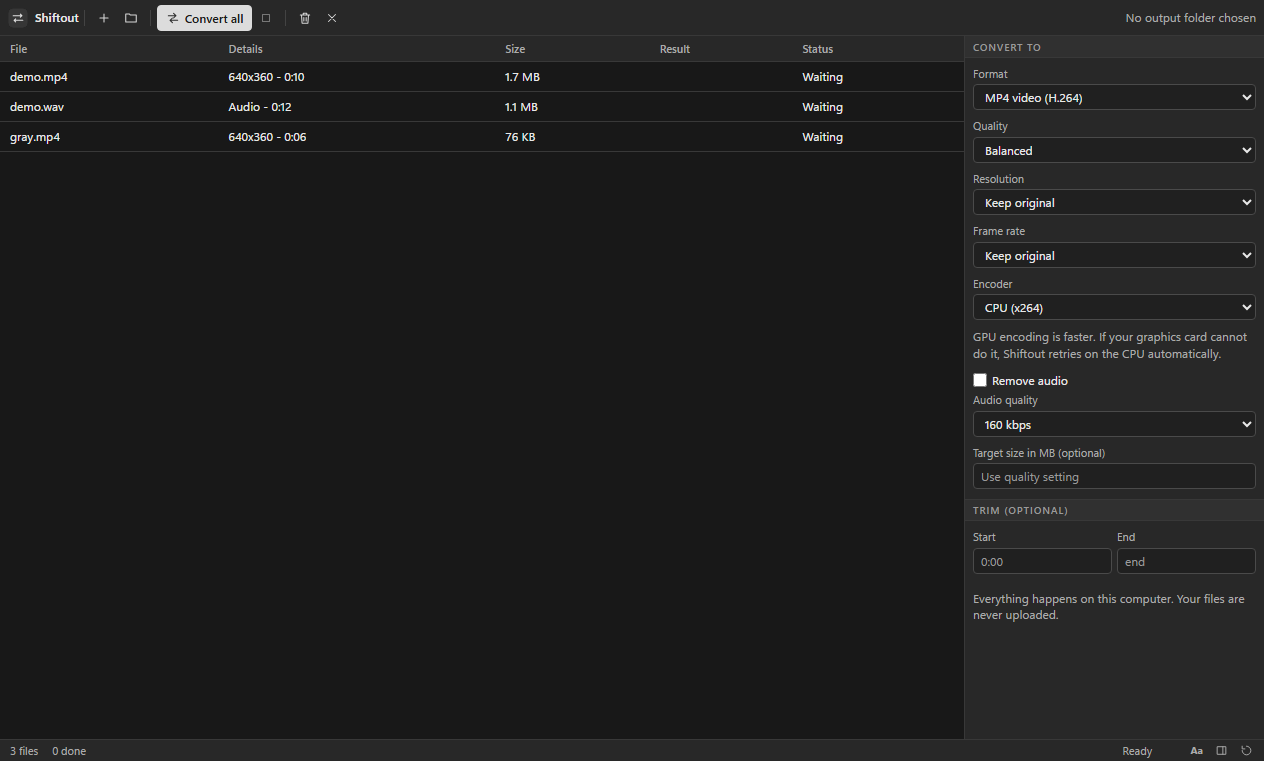
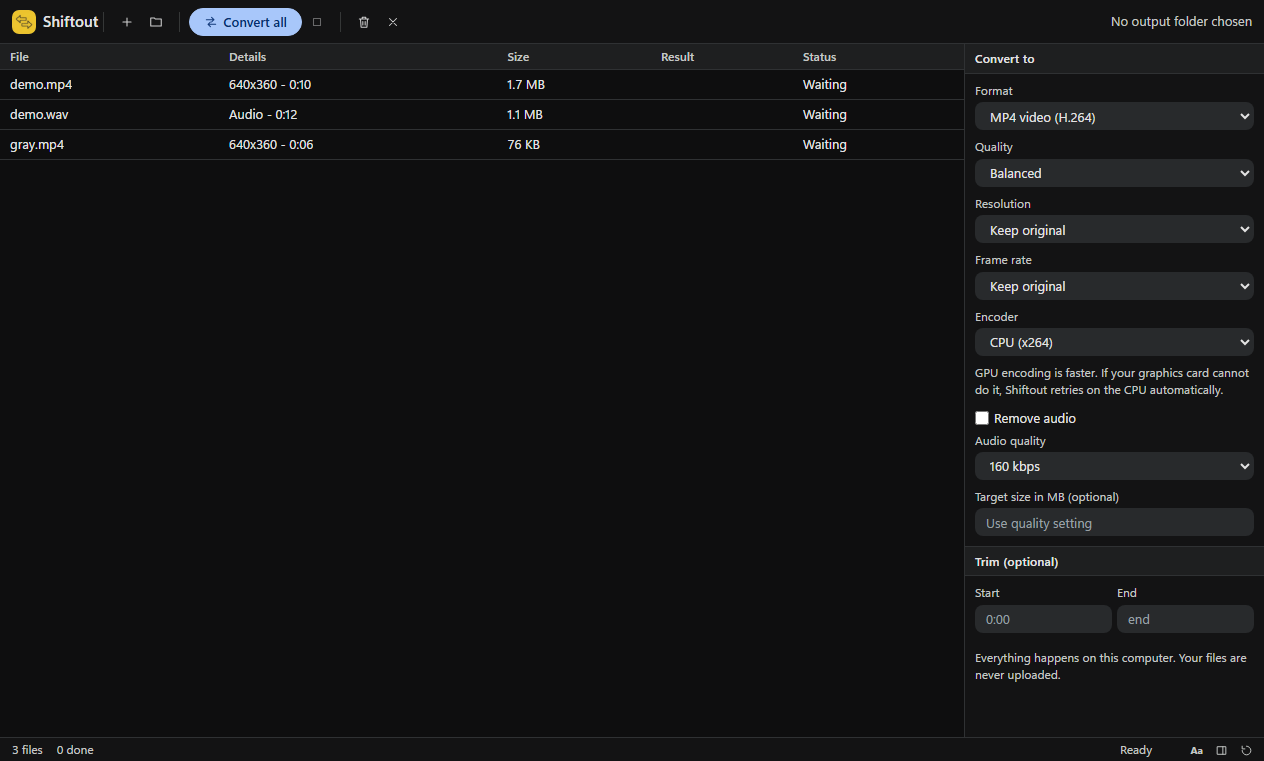
fix: Shiftout 1.0.16
New Google-style look: charcoal theme, pill buttons, blue accent, colour app logo. Refreshed README and screenshots.

diff --git a/renderer/lookout.css b/renderer/lookout.css
@@ -1,68 +1,69 @@
-/* Lookout gray UI kit v3: compact pro workspace, flat, no hue. Shared by every Lookout app. */
+/* Lookout UI kit v4: Google-style dark (AI Studio / Colab / Gemini): soft surfaces, pill buttons, blue accent. Shared by every Lookout app. */
 :root{
-  --bg:#202020; --bg-2:#282828; --bg-3:#303030; --bg-4:#3a3a3a; --stage:#181818;
-  --line:#383838; --line-2:#4a4a4a; --line-3:#5c5c5c;
-  --text:#e8e8e8; --text-2:#ababab; --text-3:#9a9a9a;
-  --accent:#dcdcdc; --accent-ink:#1b1b1b; --focus:#a0a0a0;
-  --radius:4px; --h:26px; --pad:8px;
-  --font:"Segoe UI Variable Text","Segoe UI",system-ui,-apple-system,sans-serif; --mono:Consolas,"Cascadia Mono",monospace;
+  --bg:#131314; --bg-2:#1e1f20; --bg-3:#282a2c; --bg-4:#333537; --stage:#0e0e0f;
+  --line:#2f3133; --line-2:#444746; --line-3:#5f6368;
+  --text:#e3e3e3; --text-2:#c4c7c5; --text-3:#9aa0a6;
+  --accent:#a8c7fa; --accent-ink:#062e6f; --accent-2:#0b57d0; --accent-soft:#2b3a55; --focus:#a8c7fa;
+  --radius:8px; --h:28px; --pad:10px;
+  --font:"Google Sans Text","Google Sans",Roboto,"Segoe UI Variable Text","Segoe UI",system-ui,-apple-system,sans-serif; --mono:Consolas,"Cascadia Mono",monospace;
 }
 *{box-sizing:border-box;margin:0;padding:0}
-html,body{height:100%;background:var(--bg);color:var(--text);font:12px/1.4 var(--font);overflow:hidden;user-select:none;-webkit-font-smoothing:antialiased}
+html,body{height:100%;background:var(--bg);color:var(--text);font:13px/1.45 var(--font);overflow:hidden;user-select:none;-webkit-font-smoothing:antialiased}
 button,input,select,textarea{font:inherit;color:inherit}
 .app{display:grid;grid-template-rows:auto 1fr auto;height:100vh}
 
 /* ---------- toolbar ---------- */
-.toolbar{display:flex;align-items:center;gap:1px;padding:4px 8px;min-height:36px;background:var(--bg-2);border-bottom:1px solid var(--line);flex-wrap:nowrap;overflow-x:auto;overflow-y:hidden;scrollbar-width:none}
+.toolbar{display:flex;align-items:center;gap:1px;padding:6px 12px;min-height:44px;background:var(--bg);border-bottom:1px solid var(--line);flex-wrap:nowrap;overflow-x:auto;overflow-y:hidden;scrollbar-width:none}
 .toolbar::-webkit-scrollbar{height:0}
 .toolbar>*{flex-shrink:0}
-.toolbar .sep{width:1px;height:16px;align-self:center;background:var(--line-2);margin:0 5px;opacity:.8}
+.toolbar .sep{width:1px;height:20px;align-self:center;background:var(--line-2);margin:0 8px;opacity:.7}
 .toolbar .grow{flex:1 1 auto;min-width:8px}
 .toolbar input[type=text],.toolbar input[type=search]{width:150px}
-.brand{display:flex;align-items:center;gap:7px;padding-right:2px;margin-right:2px;font-weight:600;font-size:12px;color:var(--text)}
-.brand img{width:20px;height:20px;border-radius:5px;display:block}
+.brand{display:flex;align-items:center;gap:7px;padding-right:2px;margin-right:2px;font-weight:500;font-size:15px;letter-spacing:.1px;color:var(--text)}
+.brand img{width:24px;height:24px;border-radius:7px;display:block}
 .brand+.sep{margin-left:0}
 
 /* ---------- buttons ---------- */
-.btn{display:inline-flex;align-items:center;justify-content:center;gap:5px;height:var(--h);padding:0 8px;background:var(--bg-3);border:1px solid var(--line);border-radius:var(--radius);cursor:pointer;white-space:nowrap;line-height:1;transition:background .08s,border-color .08s}
-.btn:hover{background:var(--bg-4);border-color:var(--line-2)}
-.btn:active{background:#262626}
+.btn{display:inline-flex;align-items:center;justify-content:center;gap:5px;height:var(--h);padding:0 14px;background:var(--bg-3);border:1px solid transparent;border-radius:999px;cursor:pointer;white-space:nowrap;line-height:1;transition:background .08s,border-color .08s}
+.btn:hover{background:var(--bg-4)}
+.btn:active{background:#3c3f41}
 .btn:focus-visible,input:focus-visible,select:focus-visible,textarea:focus-visible,[tabindex]:focus-visible{outline:2px solid var(--focus);outline-offset:1px}
-.btn.primary{background:var(--accent);color:var(--accent-ink);border-color:var(--accent);font-weight:600}
-.btn.primary:hover{background:#ececec;border-color:#ececec}
-.btn.on{background:#4a4a4a;border-color:var(--line-3);box-shadow:inset 0 0 0 1px #6a6a6a}
+.btn.primary{background:var(--accent);color:var(--accent-ink);border-color:var(--accent);font-weight:500}
+.btn.primary:hover{background:#c2d7fb;border-color:#c2d7fb;box-shadow:0 1px 3px rgba(0,0,0,.4)}
+.btn.on{background:var(--accent-soft);color:var(--accent);border-color:transparent}
 .btn[disabled]{opacity:.45;pointer-events:none}
-.btn.icon{padding:0;width:var(--h);min-width:var(--h)}
+.btn.icon{padding:0;width:var(--h);min-width:var(--h);border-radius:50%}
 .btn .ic{width:14px;height:14px;flex-shrink:0;display:block;opacity:.92}
 .toolbar .btn:not(.primary):not(.on){background:transparent;border-color:transparent}
-.toolbar .btn:not(.primary):not(.on):hover{background:var(--bg-4);border-color:var(--line-2)}
+.toolbar .btn:not(.primary):not(.on):hover{background:var(--bg-3);border-color:transparent}
 
 /* icon-only toolbar: names live in the tooltip (Aa in the status bar brings the labels back) */
-.toolbar:not(.lbl) .btn:not(.primary):has(> svg.ic),.toolbar.c3 .btn:has(> svg.ic){font-size:0;gap:0;width:var(--h);padding:0}
+.toolbar:not(.lbl) .btn:not(.primary):has(> svg.ic),.toolbar.c3 .btn:has(> svg.ic){font-size:0;gap:0;width:var(--h);padding:0;border-radius:50%}
 .toolbar.c2 .brand span{display:none}
 .toolbar.c2 input[type=text],.toolbar.c2 input[type=search]{width:110px}
 .toolbar.lbl.c1 .btn.minor:not(.primary):has(> svg.ic),.toolbar.lbl.c2 .btn:not(.primary):has(> svg.ic){font-size:0;gap:0;width:var(--h);padding:0}
 
 /* ---------- fields ---------- */
-input[type=text],input[type=number],input[type=search],input[type=date],select,textarea{background:var(--bg);border:1px solid var(--line-2);border-radius:var(--radius);padding:0 7px;height:var(--h);user-select:text;min-width:0;font-size:12px}
+input[type=text],input[type=number],input[type=search],input[type=date],select,textarea{background:var(--bg-3);border:1px solid transparent;border-radius:var(--radius);padding:0 10px;height:var(--h);user-select:text;min-width:0;font-size:13px}
 input[type=number],.frow>input,.field>input{font-variant-numeric:tabular-nums}
 textarea{height:auto;padding:5px 7px;resize:vertical;line-height:1.4}
 select{padding-right:4px;cursor:pointer}
-input:hover,select:hover,textarea:hover{border-color:var(--line-3)}
-input[type=range]{accent-color:#c8c8c8;height:var(--h)}
-input[type=checkbox]{accent-color:#c8c8c8;width:14px;height:14px;cursor:pointer}
-input[type=color]{border:1px solid var(--line-2);background:var(--bg);width:26px;height:var(--h);padding:2px;border-radius:var(--radius)}
-label.field{display:flex;flex-direction:column;gap:3px;color:var(--text-2);font-size:11px}
-label.field>input,label.field>select,label.field>textarea{width:100%;color:var(--text);font-size:12px}
+input:hover,select:hover,textarea:hover{background:var(--bg-4)}
+input[type=text]:focus,input[type=number]:focus,input[type=search]:focus,input[type=date]:focus,select:focus,textarea:focus{outline:none;border-color:var(--accent);background:var(--bg-2)}
+input[type=range]{accent-color:#a8c7fa;height:var(--h)}
+input[type=checkbox]{accent-color:#a8c7fa;width:14px;height:14px;cursor:pointer}
+input[type=color]{border:1px solid var(--line-2);background:var(--bg-3);width:26px;height:var(--h);padding:2px;border-radius:var(--radius)}
+label.field{display:flex;flex-direction:column;gap:3px;color:var(--text-2);font-size:12px}
+label.field>input,label.field>select,label.field>textarea{width:100%;color:var(--text);font-size:13px}
 
 /* ---------- layout ---------- */
 .main{display:flex;min-height:0;min-width:0}
-.sidebar{width:210px;background:var(--bg-2);border-right:1px solid var(--line);overflow:auto;padding:var(--pad);flex-shrink:0;min-width:0}
+.sidebar{width:210px;background:var(--bg);border-right:1px solid var(--line);overflow:auto;padding:var(--pad);flex-shrink:0;min-width:0}
 .sidebar.right{border-right:0;border-left:1px solid var(--line);width:250px}
 .sidebar.collapsed{display:none!important}
-.sidebar h3,.panel-title{font-size:10px;text-transform:uppercase;letter-spacing:.09em;color:var(--text-3);font-weight:600}
+.sidebar h3,.panel-title{font-size:12px;letter-spacing:.2px;color:var(--text-2);font-weight:500}
 .sidebar h3{margin:12px 0 6px}
-.sidebar>h3{display:flex;align-items:center;gap:6px;height:22px;margin:10px calc(var(--pad) * -1) 8px;padding:0 var(--pad);background:var(--bg-3);border-top:1px solid var(--line);border-bottom:1px solid var(--line)}
+.sidebar>h3{display:flex;align-items:center;gap:6px;height:30px;margin:10px calc(var(--pad) * -1) 8px;padding:0 var(--pad);background:var(--bg-2);border-top:1px solid var(--line);border-bottom:1px solid var(--line);color:var(--text)}
 .sidebar>h3:first-child{margin-top:calc(var(--pad) * -1);border-top:0}
 .panel-title{margin:12px 0 6px}
 .sidebar input[type=text],.sidebar input[type=search],.sidebar select,.sidebar textarea{width:100%}
@@ -73,20 +74,20 @@ label.field>input,label.field>select,label.field>textarea{width:100%;color:var(-
 .sidebar .btn{width:auto}
 .sidebar>.btn{width:100%;margin-bottom:5px}
 .stage{flex:1;min-width:0;min-height:0;position:relative;background:var(--stage);overflow:auto}
-.status{display:flex;gap:14px;align-items:center;height:22px;padding:0 10px;background:var(--bg-2);border-top:1px solid var(--line);color:var(--text-2);font-size:11px;white-space:nowrap;overflow:hidden}
+.status{display:flex;gap:14px;align-items:center;height:24px;padding:0 12px;background:var(--bg);border-top:1px solid var(--line);color:var(--text-2);font-size:12px;white-space:nowrap;overflow:hidden}
 .status .grow{flex:1}
 body.hasdock .status{padding-right:112px}
-.wbs{position:fixed;right:6px;bottom:2px;height:18px;display:flex;gap:2px;z-index:8;background:var(--bg-2);padding-left:6px}
+.wbs{position:fixed;right:6px;bottom:2px;height:18px;display:flex;gap:2px;z-index:8;background:var(--bg);padding-left:6px}
 .wbs[hidden]{display:none}
-.wbs .wb{height:18px;min-width:22px;padding:0 4px;display:inline-flex;align-items:center;justify-content:center;font-size:10px;font-weight:700;line-height:1;background:transparent;border:1px solid transparent;border-radius:3px;color:var(--text-2);cursor:pointer}
+.wbs .wb{height:18px;min-width:22px;padding:0 4px;display:inline-flex;align-items:center;justify-content:center;font-size:10px;font-weight:700;line-height:1;background:transparent;border:1px solid transparent;border-radius:6px;color:var(--text-2);cursor:pointer}
 .wbs .wb[hidden]{display:none}
 .wbs .wb svg{width:13px;height:13px;display:block}
-.wbs .wb:hover{background:var(--bg-4);border-color:var(--line-2);color:var(--text)}
-.wbs .wb.on{background:var(--bg-4);border-color:var(--line-3);color:var(--text)}
+.wbs .wb:hover{background:var(--bg-3);color:var(--text)}
+.wbs .wb.on{background:var(--accent-soft);color:var(--accent)}
 .list{display:flex;flex-direction:column;gap:1px}
-.list .item{padding:3px 6px;border-radius:var(--radius);cursor:pointer;border:1px solid transparent;display:flex;gap:6px;align-items:center;min-height:26px}
+.list .item{padding:3px 10px;border-radius:999px;cursor:pointer;border:1px solid transparent;display:flex;gap:6px;align-items:center;min-height:26px}
 .list .item:hover{background:var(--bg-3)}
-.list .item.sel{background:var(--bg-4);border-color:var(--line-2)}
+.list .item.sel{background:var(--accent-soft);color:var(--accent);border-color:transparent}
 .row{display:flex;gap:5px;align-items:center}
 .grow{flex:1 1 auto;min-width:0}
 .brow{display:grid;grid-template-columns:1fr 1fr;gap:5px;margin-bottom:5px}
@@ -99,17 +100,17 @@ body.hasdock .status{padding-right:112px}
 .sidebar .swatches{margin-bottom:8px}
 .list .item .btn{height:22px!important;width:24px!important;padding:0!important;font-size:0!important;gap:0;background:transparent;border-color:transparent;opacity:.55}
 .list .item:hover .btn,.list .item.sel .btn{opacity:1}
-.list .item .btn:hover{background:var(--bg-4);border-color:var(--line-2)}
+.list .item .btn:hover{background:var(--bg-4)}
 .col{display:flex;flex-direction:column;gap:5px}
 .muted{color:var(--text-2)}
 .empty{position:absolute;inset:0;display:flex;flex-direction:column;align-items:center;justify-content:center;gap:10px;color:var(--text-3);text-align:center;padding:24px}
-.empty .big{font-size:16px;color:var(--text-2);font-weight:600}
+.empty .big{font-size:20px;color:var(--text);font-weight:400}
 
 /* panel grip: drag to resize, double-click to collapse or restore */
 .grip{position:relative;flex:0 0 5px;width:5px;margin:0 -3px 0 -2px;z-index:6;cursor:col-resize;touch-action:none}
 .grip::after{content:"";position:absolute;top:0;bottom:0;left:2px;width:1px;background:transparent;transition:background .1s}
-.grip:hover::after,.grip.drag::after{background:var(--line-3);width:2px;left:1px}
-.grip.collapsed{flex:0 0 8px;width:8px;margin:0;background:var(--bg-2);border-left:1px solid var(--line);border-right:1px solid var(--line)}
+.grip:hover::after,.grip.drag::after{background:var(--accent);width:2px;left:1px}
+.grip.collapsed{flex:0 0 8px;width:8px;margin:0;background:var(--bg);border-left:1px solid var(--line);border-right:1px solid var(--line)}
 .grip.collapsed::after{left:3px;top:calc(50% - 14px);bottom:auto;height:28px;width:2px;background:var(--line-3);border-radius:2px}
 .grip.collapsed:hover{background:var(--bg-3)}
 body.gripping{cursor:col-resize}
@@ -117,30 +118,30 @@ body.gripping *{cursor:col-resize!important;user-select:none!important}
 
 /* ---------- overlays ---------- */
 .modal-back{position:fixed;inset:0;background:rgba(0,0,0,.6);display:flex;align-items:center;justify-content:center;z-index:50}
-.modal{background:var(--bg-2);border:1px solid var(--line-2);border-radius:8px;min-width:340px;max-width:80vw;max-height:85vh;overflow:auto;padding:16px;display:flex;flex-direction:column;gap:12px;box-shadow:0 18px 50px rgba(0,0,0,.5)}
-.modal h2{font-size:14px;font-weight:600}
-.toast{position:fixed;left:50%;bottom:34px;transform:translateX(-50%);background:var(--bg-4);border:1px solid var(--line-3);padding:7px 14px;border-radius:6px;z-index:60;box-shadow:0 8px 24px rgba(0,0,0,.4)}
-.progress{height:5px;background:var(--bg);border:1px solid var(--line);border-radius:4px;overflow:hidden}
+.modal{background:var(--bg-2);border:0;border-radius:24px;min-width:360px;max-width:80vw;max-height:85vh;overflow:auto;padding:24px;display:flex;flex-direction:column;gap:14px;box-shadow:0 8px 32px rgba(0,0,0,.6)}
+.modal h2{font-size:20px;font-weight:400}
+.toast{position:fixed;left:50%;bottom:34px;transform:translateX(-50%);background:#e3e3e3;color:#1f1f1f;border:0;padding:10px 18px;border-radius:8px;z-index:60;box-shadow:0 8px 24px rgba(0,0,0,.4)}
+.progress{height:6px;background:var(--bg-3);border:0;border-radius:999px;overflow:hidden}
 .progress>i,.progress>div{display:block;height:100%;background:var(--accent);width:0}
 
 /* ---------- tables ---------- */
 table.grid{border-collapse:separate;border-spacing:0;width:100%}
 table.grid th,table.grid td{border-bottom:1px solid var(--line);padding:0 10px;height:30px;text-align:left;vertical-align:middle}
-table.grid th{background:var(--bg-2);color:var(--text-2);font-weight:600;font-size:11px;position:sticky;top:0;z-index:1;height:26px}
-table.grid tbody tr:hover td{background:#242424}
-table.grid tr.sel td{background:#323232}
+table.grid th{background:var(--bg-2);color:var(--text-2);font-weight:500;font-size:12px;position:sticky;top:0;z-index:1;height:26px}
+table.grid tbody tr:hover td{background:var(--bg-2)}
+table.grid tr.sel td{background:var(--accent-soft)}
 table.grid tbody tr{cursor:default}
 table.grid td .btn{height:22px;margin-left:6px;vertical-align:middle}
 table.grid td{white-space:nowrap}
 
 /* ---------- misc ---------- */
 ::-webkit-scrollbar{width:10px;height:10px}
-::-webkit-scrollbar-thumb{background:#454545;border:3px solid transparent;background-clip:padding-box;border-radius:8px}
-::-webkit-scrollbar-thumb:hover{background:#5a5a5a;background-clip:padding-box;border:3px solid transparent}
+::-webkit-scrollbar-thumb{background:#4a4d50;border:3px solid transparent;background-clip:padding-box;border-radius:8px}
+::-webkit-scrollbar-thumb:hover{background:#6b6f73;background-clip:padding-box;border:3px solid transparent}
 ::-webkit-scrollbar-track,::-webkit-scrollbar-corner{background:transparent}
 .swatches{display:flex;flex-wrap:wrap;gap:5px}
-.swatches button{width:20px;height:20px;border:1px solid var(--line-3);border-radius:4px;cursor:pointer;padding:0}
+.swatches button{width:22px;height:22px;border:1px solid var(--line-3);border-radius:50%;cursor:pointer;padding:0}
 .swatches button.on{outline:2px solid var(--accent);outline-offset:2px}
-kbd{font-family:var(--mono);font-size:10px;background:var(--bg-3);border:1px solid var(--line-2);border-bottom-width:2px;border-radius:3px;padding:0 4px}
+kbd{font-family:var(--mono);font-size:10px;background:var(--bg-3);border:1px solid var(--line-2);border-bottom-width:2px;border-radius:4px;padding:0 5px}
 
 input::placeholder,textarea::placeholder{color:var(--text-3);opacity:1}

diff --git a/README.md b/README.md
@@ -1,8 +1,10 @@
-<p align="center"><img src="screenshots/banner.png" alt="Shiftout" width="100%"></p>
+<p align="center"><img src="screenshots/logo.png" alt="Shiftout" width="128"></p>
 
-<p align="center"><b>Convert and compress media</b><br>Version 1.0.3 for Windows · Free · Offline · No account</p>
+<h1 align="center">Shiftout</h1>
 
-<p align="center"><a href="https://github.com/plawanpawin-byte/shiftout/releases/latest"><b>Download Shiftout</b></a> · <a href="https://github.com/plawanpawin-byte/Lookout">All Lookout apps</a></p>
+<p align="center"><b>Convert and compress media</b><br>Version 1.0.16 for Windows · Free · Offline · No account</p>
+
+<p align="center"><a href="https://github.com/plawanpawin-byte/shiftout/releases/latest"><b>Download Shiftout</b></a> · <a href="https://github.com/plawanpawin-byte/lookout-launcher">Lookout launcher</a> · <a href="https://github.com/plawanpawin-byte/Lookout">All Lookout apps</a></p>
 
 ---
 
@@ -12,11 +14,51 @@ Shiftout converts video and audio between formats, shrinks large files and makes
 
 ![Shiftout](screenshots/01-queue.png)
 
-**On this page:** [Screenshots](#see-it-in-action) · [Interface](#the-interface) · [Features](#everything-it-can-do) · [How to use it](#how-to-use-it) · [Shortcuts](#keyboard-shortcuts) · [Formats](#files-and-formats) · [Privacy](#private-by-design) · [Install](#install) · [Questions](#questions)
+**On this page:** [In plain words](#in-plain-words) · [Who it is for](#who-it-is-for) · [Try it in 3 steps](#try-it-in-3-steps) · [Screenshots](#see-it-in-action) · [Features](#everything-it-can-do) · [How to use it](#how-to-use-it) · [Privacy](#private-by-design) · [Install](#install) · [Questions](#questions)
 
-## What is new in 1.0.3
+## In plain words
 
-A refreshed interface: every toolbar button now has a clear line icon, the app's mark sits at the top left, controls share one height and spacing, panels line up in tidy grids, and the toolbar keeps every button reachable on smaller windows by switching less important buttons to icons.
+Shiftout **converts media files from one format to another**. Maybe a video will not play on your phone, an audio file is too large to email, or you want a short **GIF** from a video. You add the files, pick what you want them to become (for example MP4, MP3 or GIF) and Shiftout does the work.
+
+You can add **many files at once** and convert them all in one batch. It can also shrink big files by lowering the quality a little, so they take up less space. A bundled copy of the tool FFmpeg does the real work, all on your own computer.
+
+**Not for:** Shiftout changes the format of a file. To cut or join clips use Cutout, and to fix a broken file use Mendout.
+
+## Who it is for
+
+- **Anyone with a file that will not open** on their device.
+- **People who need smaller files** to email or upload.
+- **Creators** making GIFs or extracting the sound track of a video.
+
+## Try it in 3 steps
+
+1. Click **Add files** and choose several videos or audio files.
+2. Click **Add files**, then pick the target format in the right panel, for example MP3 for audio only.
+3. Press **Convert all**, then click **Show** to open a finished file.
+
+## What is new in 1.0.16
+
+A new look inspired by Google's own tools (AI Studio, Colab, Gemini): a calm dark charcoal theme, rounded pill buttons, a soft blue accent and roomier spacing. The app icon is now a colour logo so you can find Shiftout at a glance in the Start menu and in the Lookout launcher. All screenshots below were taken again with the new look.
+
+## In plain words
+
+Shiftout **converts media files from one format to another**. Maybe a video will not play on your phone, an audio file is too large to email, or you want a short **GIF** from a video. You add the files, pick what you want them to become (for example MP4, MP3 or GIF) and Shiftout does the work.
+
+You can add **many files at once** and convert them all in one batch. It can also shrink big files by lowering the quality a little, so they take up less space. A bundled copy of the tool FFmpeg does the real work, all on your own computer.
+
+**Not for:** Shiftout changes the format of a file. To cut or join clips use Cutout, and to fix a broken file use Mendout.
+
+## Who it is for
+
+- **Anyone with a file that will not open** on their device.
+- **People who need smaller files** to email or upload.
+- **Creators** making GIFs or extracting the sound track of a video.
+
+## Try it in 3 steps
+
+1. Click **Add files** and choose several videos or audio files.
+2. Click **Add files**, then pick the target format in the right panel, for example MP3 for audio only.
+3. Press **Convert all**, then click **Show** to open a finished file.
 
 ## See it in action
 
@@ -113,7 +155,7 @@ Reads almost any common video or audio file. Writes the formats listed above.
 
 ## Install
 
-1. Open the [latest release](https://github.com/plawanpawin-byte/shiftout/releases/latest) and download the file named **Shiftout-Setup-** followed by the version number and **.exe**. You can also install it from the [Lookout launcher](https://github.com/${OWNER}/lookout-launcher), which keeps it up to date.
+1. Open the [latest release](https://github.com/plawanpawin-byte/shiftout/releases/latest) and download the file named **Shiftout-Setup-** followed by the version number and **.exe**. You can also install it from the [Lookout launcher](https://github.com/plawanpawin-byte/lookout-launcher), which keeps it up to date.
 2. Run the installer. It installs just for you, so it does not ask for administrator rights.
 3. Windows may show a blue **Windows protected your PC** screen because these installers are not signed with a paid certificate. Click **More info**, then **Run anyway**.
 4. Open Shiftout from the Start menu.
@@ -128,18 +170,40 @@ Never. Shiftout does not use the network.
 **Can it overwrite my original?**  
 No. If a name is already taken, a number is added to the new file.
 
+**What is a format?**  
+The way data is stored in the file, shown by the ending of its name such as .mp4 or .mp3.
+
+**Will quality be lost?**  
+Converting between lossy formats can lose a tiny amount of quality. Choose a higher quality setting if it matters.
+
+**Does it delete my originals?**  
+No. Shiftout writes new files and leaves the originals alone.
+
+**What is a format?**  
+The way data is stored in the file, shown by the ending of its name such as .mp4 or .mp3.
+
+**Will quality be lost?**  
+Converting between lossy formats can lose a tiny amount of quality. Choose a higher quality setting if it matters.
+
+**Does it delete my originals?**  
+No. Shiftout writes new files and leaves the originals alone.
+
 ## About Lookout
 
-Shiftout belongs to the **[Lookout](https://github.com/plawanpawin-byte/Lookout)** family: ten small, private Windows apps for documents and media, all with the same calm grey look and the same promise that your files stay yours. Install and update them together with the [Lookout launcher](https://github.com/plawanpawin-byte/lookout-launcher).
+Shiftout is part of **[Lookout](https://github.com/plawanpawin-byte/Lookout)**: ten small, private Windows apps for documents and media that share one look and one promise, that your files stay on your computer. Install and update them together with the [Lookout launcher](https://github.com/plawanpawin-byte/lookout-launcher).
 
-- **[Pageout](https://github.com/plawanpawin-byte/pageout)**: read, annotate and sign pdfs
-- **[Chartout](https://github.com/plawanpawin-byte/chartout)**: flowcharts and diagrams
-- **[Branchout](https://github.com/plawanpawin-byte/branchout)**: mind maps and outlines
-- **[Planout](https://github.com/plawanpawin-byte/planout)**: plans and gantt timelines
-- **[Frameout](https://github.com/plawanpawin-byte/frameout)**: screen design and prototypes
-- **[Cutout](https://github.com/plawanpawin-byte/cutout)**: video editing on a timeline
-- **[Castout](https://github.com/plawanpawin-byte/castout)**: record your screen
-- **[Mendout](https://github.com/plawanpawin-byte/mendout)**: repair damaged media
-- **[Tuneout](https://github.com/plawanpawin-byte/tuneout)**: record and edit audio
+| | App | What it is for | Code |
+| --- | --- | --- | --- |
+| <img src="https://raw.githubusercontent.com/plawanpawin-byte/lookout-launcher/main/build/icon.png" width="32" alt="Lookout"> | **Lookout** | Install, open and update all the apps below | [GitHub](https://github.com/plawanpawin-byte/lookout-launcher) |
+| <img src="https://raw.githubusercontent.com/plawanpawin-byte/pageout/main/build/icon.png" width="32" alt="Pageout"> | **Pageout** | Read, annotate and sign PDFs | [GitHub](https://github.com/plawanpawin-byte/pageout) |
+| <img src="https://raw.githubusercontent.com/plawanpawin-byte/chartout/main/build/icon.png" width="32" alt="Chartout"> | **Chartout** | Flowcharts, org charts and diagrams | [GitHub](https://github.com/plawanpawin-byte/chartout) |
+| <img src="https://raw.githubusercontent.com/plawanpawin-byte/branchout/main/build/icon.png" width="32" alt="Branchout"> | **Branchout** | Mind maps and outlines | [GitHub](https://github.com/plawanpawin-byte/branchout) |
+| <img src="https://raw.githubusercontent.com/plawanpawin-byte/planout/main/build/icon.png" width="32" alt="Planout"> | **Planout** | Project plans and Gantt timelines | [GitHub](https://github.com/plawanpawin-byte/planout) |
+| <img src="https://raw.githubusercontent.com/plawanpawin-byte/frameout/main/build/icon.png" width="32" alt="Frameout"> | **Frameout** | App and web screen design with click-through prototypes | [GitHub](https://github.com/plawanpawin-byte/frameout) |
+| <img src="https://raw.githubusercontent.com/plawanpawin-byte/cutout/main/build/icon.png" width="32" alt="Cutout"> | **Cutout** | Video editing on a timeline | [GitHub](https://github.com/plawanpawin-byte/cutout) |
+| <img src="https://raw.githubusercontent.com/plawanpawin-byte/shiftout/main/build/icon.png" width="32" alt="Shiftout"> | **Shiftout** | Convert and compress video and audio, make GIFs | [GitHub](https://github.com/plawanpawin-byte/shiftout) |
+| <img src="https://raw.githubusercontent.com/plawanpawin-byte/castout/main/build/icon.png" width="32" alt="Castout"> | **Castout** | Record your screen | [GitHub](https://github.com/plawanpawin-byte/castout) |
+| <img src="https://raw.githubusercontent.com/plawanpawin-byte/mendout/main/build/icon.png" width="32" alt="Mendout"> | **Mendout** | Check and repair damaged video, audio, pictures and PDFs | [GitHub](https://github.com/plawanpawin-byte/mendout) |
+| <img src="https://raw.githubusercontent.com/plawanpawin-byte/tuneout/main/build/icon.png" width="32" alt="Tuneout"> | **Tuneout** | Record and edit audio | [GitHub](https://github.com/plawanpawin-byte/tuneout) |
 
 Released under the MIT License.
